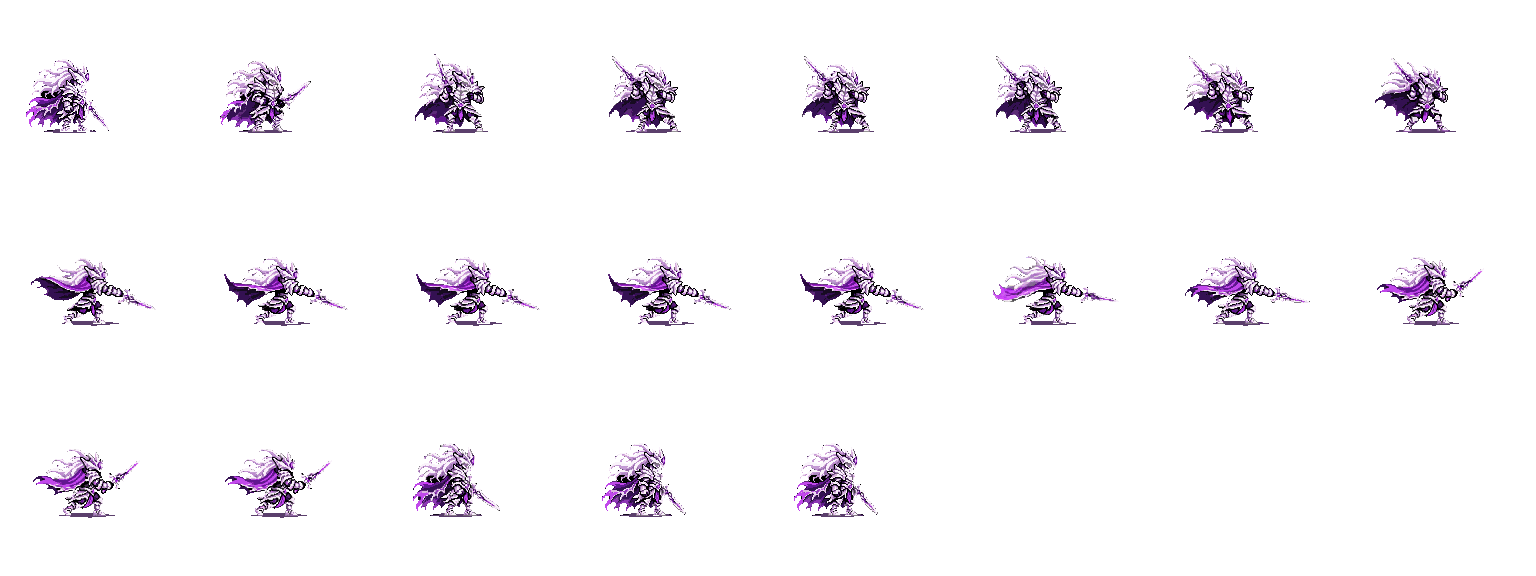
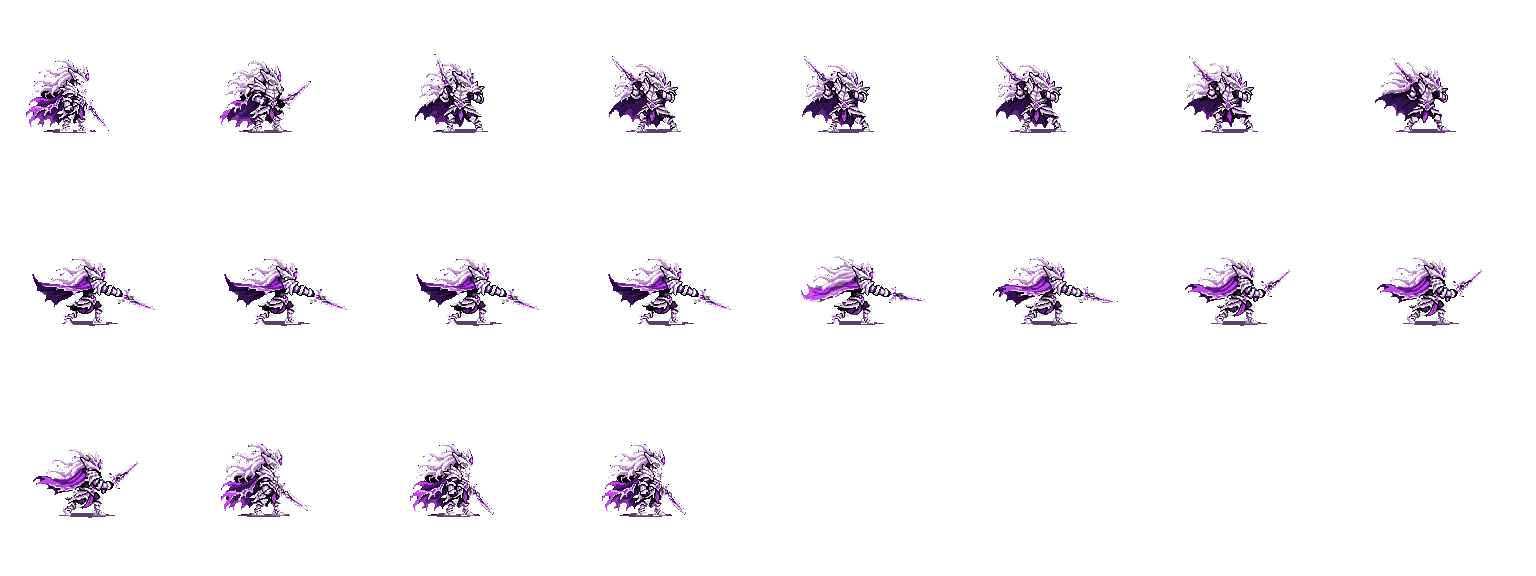
Remove AI candidate frame from v3 motion sheet
Sheet now uses only the approved frames; candidate frame removed.

diff --git a/Art/flash-executioner/candidates/basic-v3/README.md b/Art/flash-executioner/candidates/basic-v3/README.md
@@ -1,9 +1,9 @@
 # Flash Executioner basic attack, v3 motion candidate (not approved, not runtime)
 
-- `basic_v3_motion.png` + `basic_v3_motion.json`: 21-frame motion sheet, 192 px cells, 8 columns, 25 fps, pivot 70/133.
+- `basic_v3_motion.png` + `basic_v3_motion.json`: motion sheet, 192 px cells, 8 columns, 25 fps, pivot 70/133.
 - Matches the last motion sequence used for the effect MP4 (`flash_basic_sweep_f10x4.mp4`), without the sweep effect.
-- Contact frame: index 14 (JSON `contact_frame`).
-- Frame 8 (approved sheet's 0-based frame 8, stray blade line) is replaced by a PixelLab candidate that has no line. The candidate has not been reviewed by the owner.
+- Contact frame: see JSON `contact_frame`.
+- No AI candidate frame is included. The approved frames are used as they are.
 - Frames from the 22-frame motion removed: 1-based 12, 13, 21, 22. Cut frame 1 is repeated three times; the 10th frame is repeated four times in total.
 - Not wired into `reviewed/`, `Assets/`, or `native-engine/`. Runtime mapping (contact frame, frame count) would need the importer, which requires explicit main approval.
 - The sweep effect is not included here. It is a PixelFX remix (custom, not an upstream resource) and needs the owner's approval.
